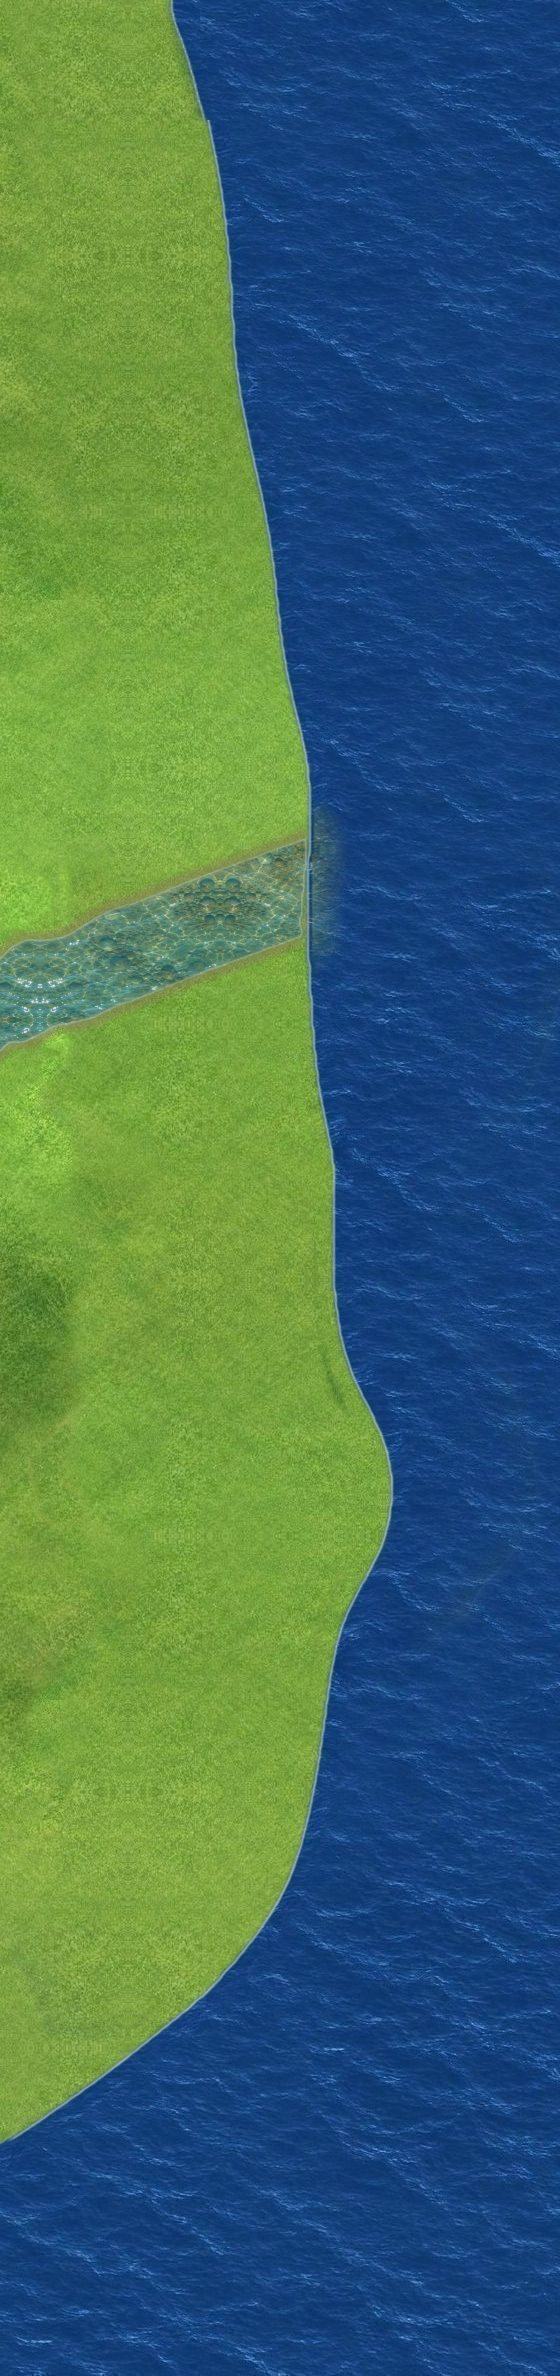
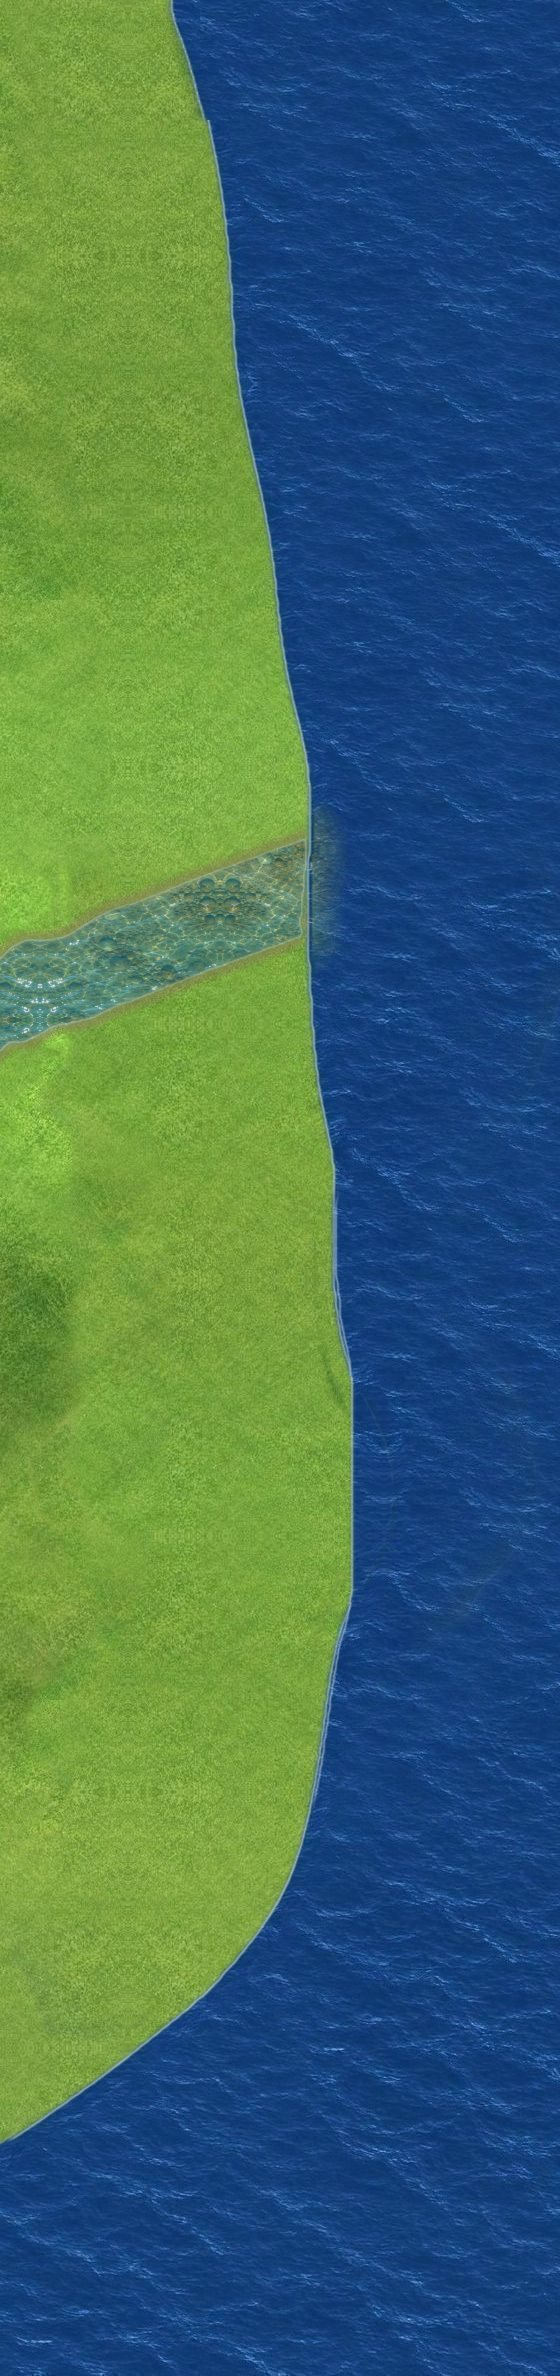
东岸、南岸用户圈出的地方改成海并抹顺 Co-Authored-By: Claude Opus 5.5 <noreply@anthropic.com> Claude-Session: https://claude.ai/code/session_011WrGna6yNwTfpmyp4CxMHs

Changed region(s): [[0.6071, 0.5606, 0.6982, 0.6852], [0.5768, 0.6852, 0.6071, 0.7475], [0.5768, 0.4983, 0.6071, 0.5606]]

diff --git a/src/main.js b/src/main.js
@@ -1,16 +1,16 @@
 
-import {createMenu} from './menu.js?v=11030830';
-import {createSurvival} from './survival.js?v=11030830';
-import {createEnemies} from './enemies.js?v=11030830';
-import {createAudio} from './audio.js?v=11030830';
-import {createMeta} from './meta.js?v=11030830';
+import {createMenu} from './menu.js?v=11030840';
+import {createSurvival} from './survival.js?v=11030840';
+import {createEnemies} from './enemies.js?v=11030840';
+import {createAudio} from './audio.js?v=11030840';
+import {createMeta} from './meta.js?v=11030840';
 window.META=createMeta();
 const SFX=window.SFX=createAudio();
-import {createPathing} from './pathing.js?v=11030830';
+import {createPathing} from './pathing.js?v=11030840';
 let PATH=null;window.PATHDIR=(x,y)=>PATH?.dir(x,y);window.PATHDBG=()=>PATH?.dbg();window.PATHAT=(x,y)=>PATH?PATH.at(x,y):-1;
-import {createWeather} from './weather.js?v=11030830';
-import {createRun} from './run.js?v=11030830';
-import {createDebug} from './debug.js?v=11030830';
+import {createWeather} from './weather.js?v=11030840';
+import {createRun} from './run.js?v=11030840';
+import {createDebug} from './debug.js?v=11030840';
 const [W,CH,ED]=await Promise.all(['data/world.json','data/characters.json','data/enemies.json'].map(u=>fetch(u).then(r=>r.json())));
 const HN=await fetch('data/heroine.json').then(r=>r.json());
 const HM=await fetch('data/hero_m.json').then(r=>r.json());

diff --git a/src/run.js b/src/run.js
@@ -1,5 +1,5 @@
-import {install as installLM} from './landmarks.js?v=11030830';
-import {DEFS,CARD_DT,CARD_IC,CARD_KIND,install} from './cards2.js?v=11030830';
+import {install as installLM} from './landmarks.js?v=11030840';
+import {DEFS,CARD_DT,CARD_IC,CARD_KIND,install} from './cards2.js?v=11030840';
 // 局内成长（最小可玩版）：经验珠 → 升级三选一（大类卡点开再选）→ 多把武器自动攻击；被动；刷怪节奏；精英与 Boss。
 // 设计见 docs/GAME_DESIGN.md。伤害单位 = 敌人血量单位（棍兵基础 2 点）。
 const R=(a,b)=>a+Math.random()*(b-a);

diff --git a/index.html b/index.html
@@ -88,5 +88,5 @@ function tick(n){if(!document.getElementById('boot'))return;var t=(n-t0)/1000,dt
 <div class="sw" role="group" aria-label="角色" id="cs"><button data-c="m" aria-pressed="true">短发</button><button data-c="f0" aria-pressed="false">女主·长直发</button></div>
 </div>
 
-<script type="module" src="src/main.js?v=11030830"></script>
+<script type="module" src="src/main.js?v=11030840"></script>
 </body></html>

diff --git a/src/menu.js b/src/menu.js
@@ -1,4 +1,4 @@
-import {WEAPONS,PASSIVES,POOL,PASS_KEYS,WIC,PIC,fixDeck,DECKN,KIND} from './run.js?v=11030830';
+import {WEAPONS,PASSIVES,POOL,PASS_KEYS,WIC,PIC,fixDeck,DECKN,KIND} from './run.js?v=11030840';
 // 主界面：独立绘制演示场景；备战（角色/装备/商店）→ 选关卡 → 出发。
 document.documentElement.classList.add('menu-loading');
 const style=document.createElement('style');

diff --git a/src/survival.js b/src/survival.js
@@ -1,4 +1,4 @@
-import {createLeaderboard,submitScore,formatTime,scoreOf} from './leaderboard.js?v=11030830';
+import {createLeaderboard,submitScore,formatTime,scoreOf} from './leaderboard.js?v=11030840';
 
 export function createSurvival(game){
  let maxHp=100,playing=false,finished=false,hp=100,elapsed=0,cooldown=0,name='',generation=0;
